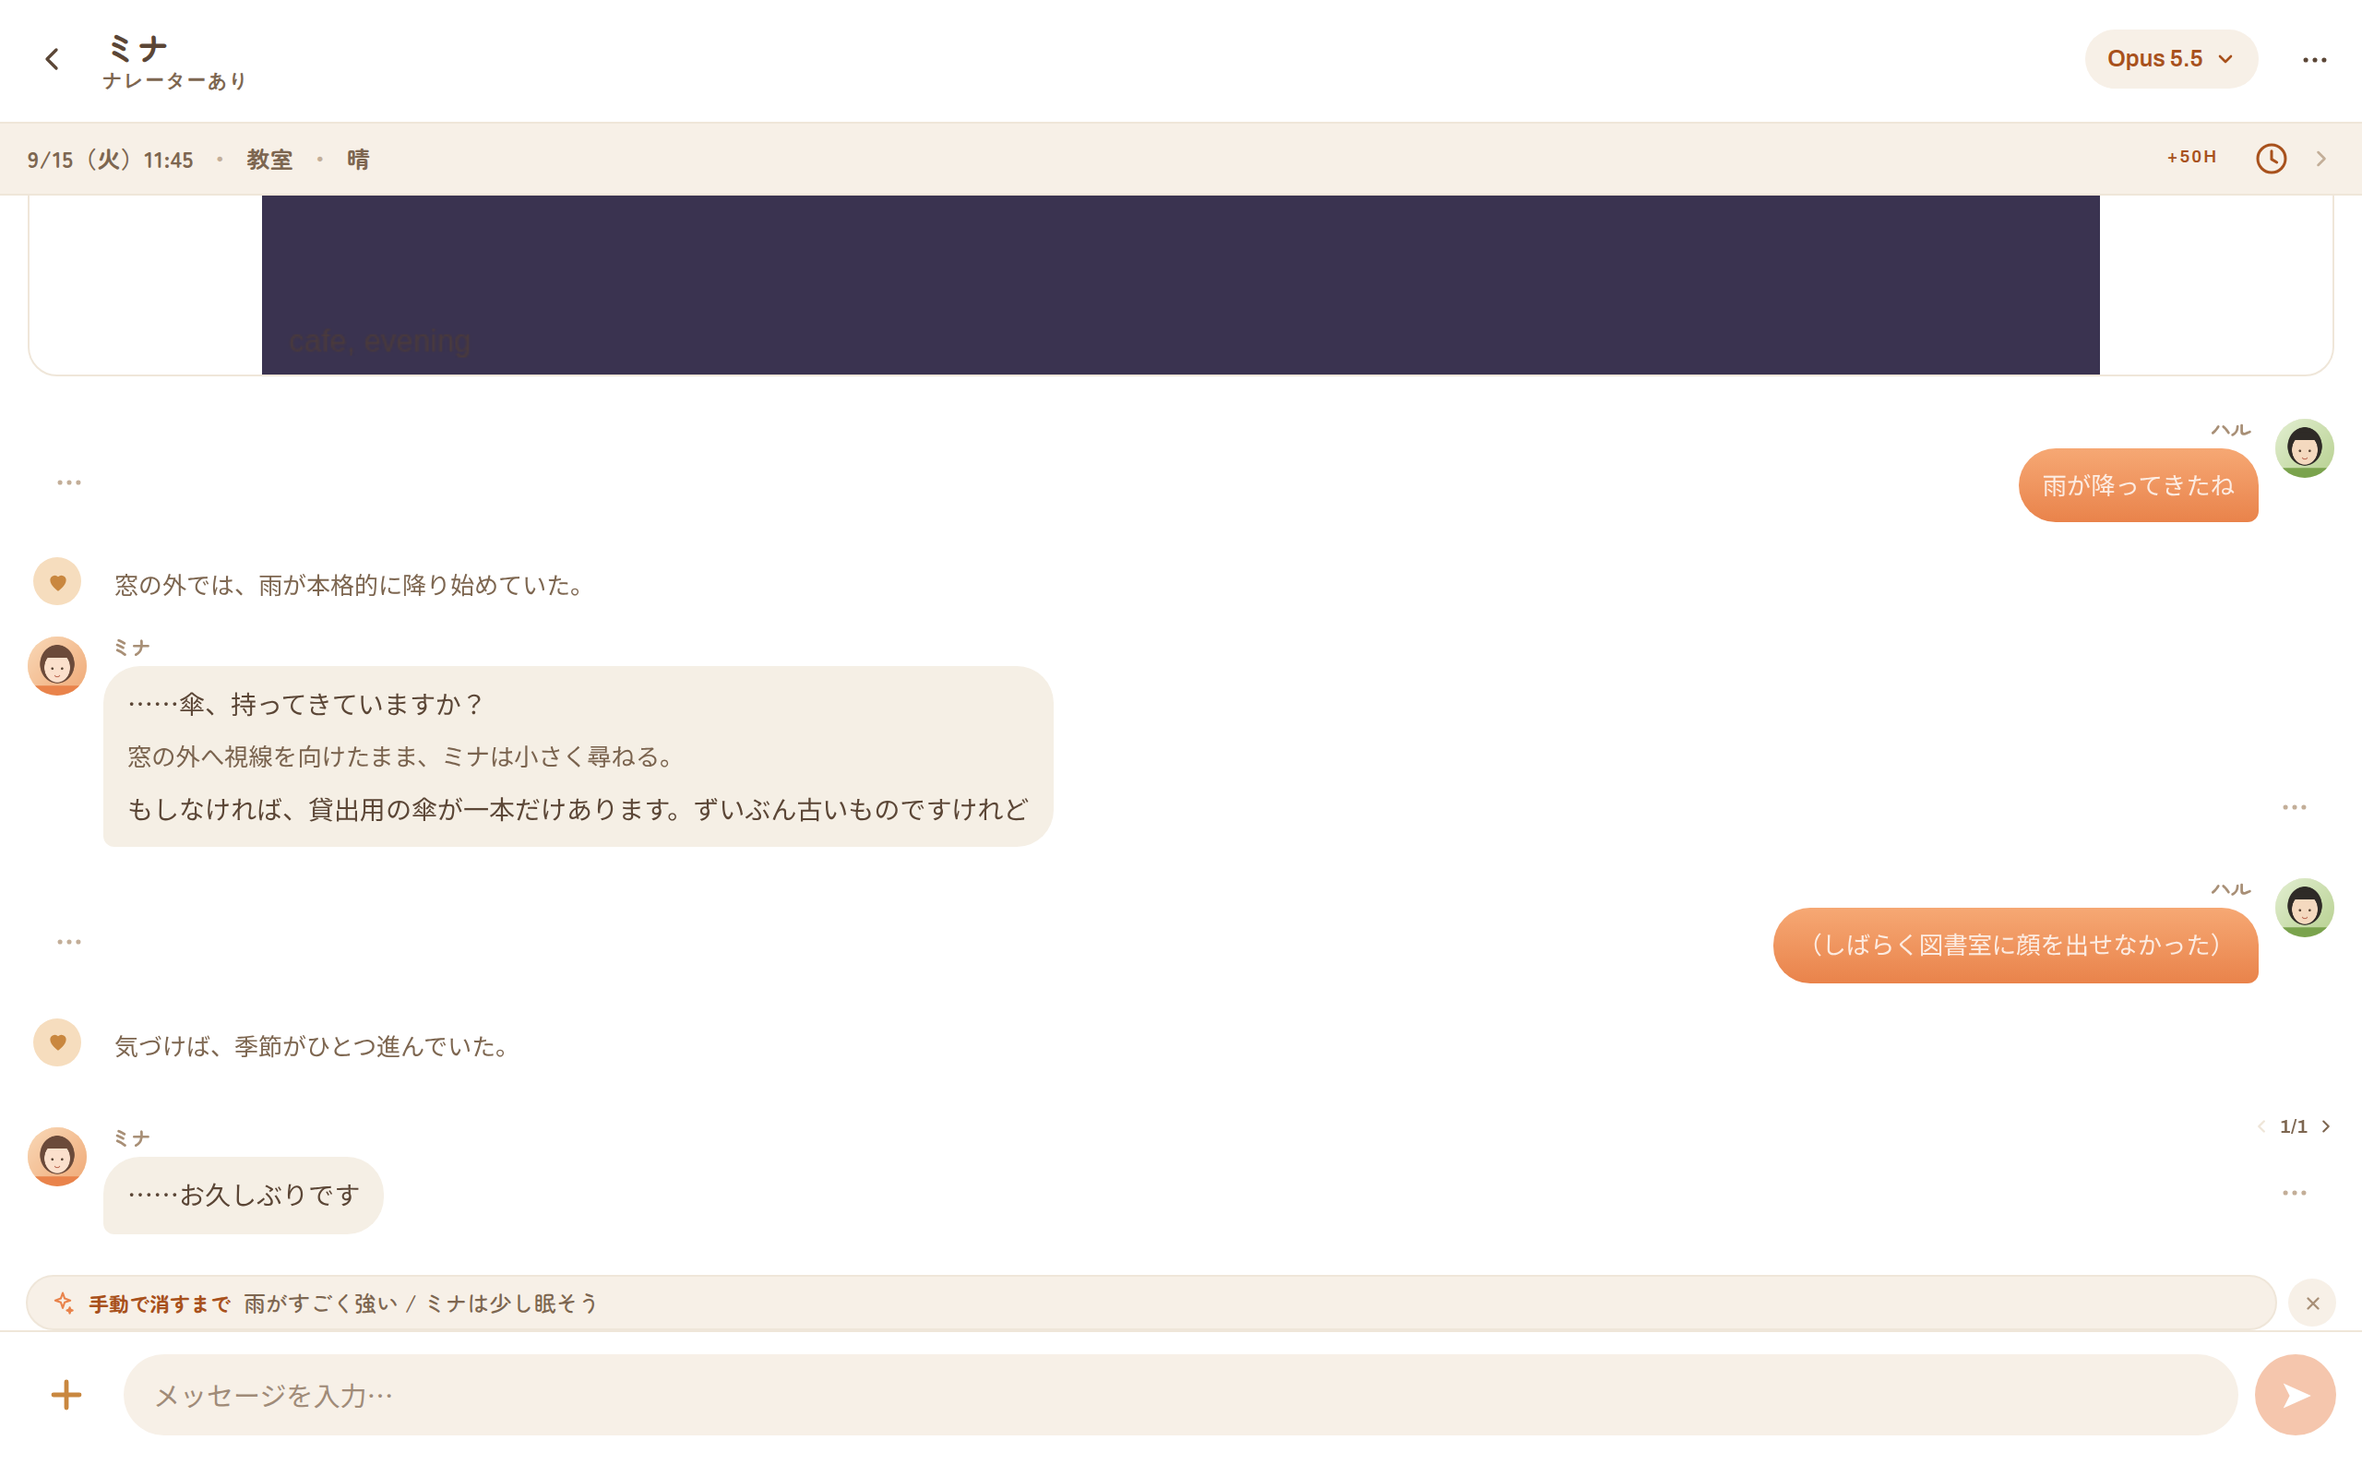
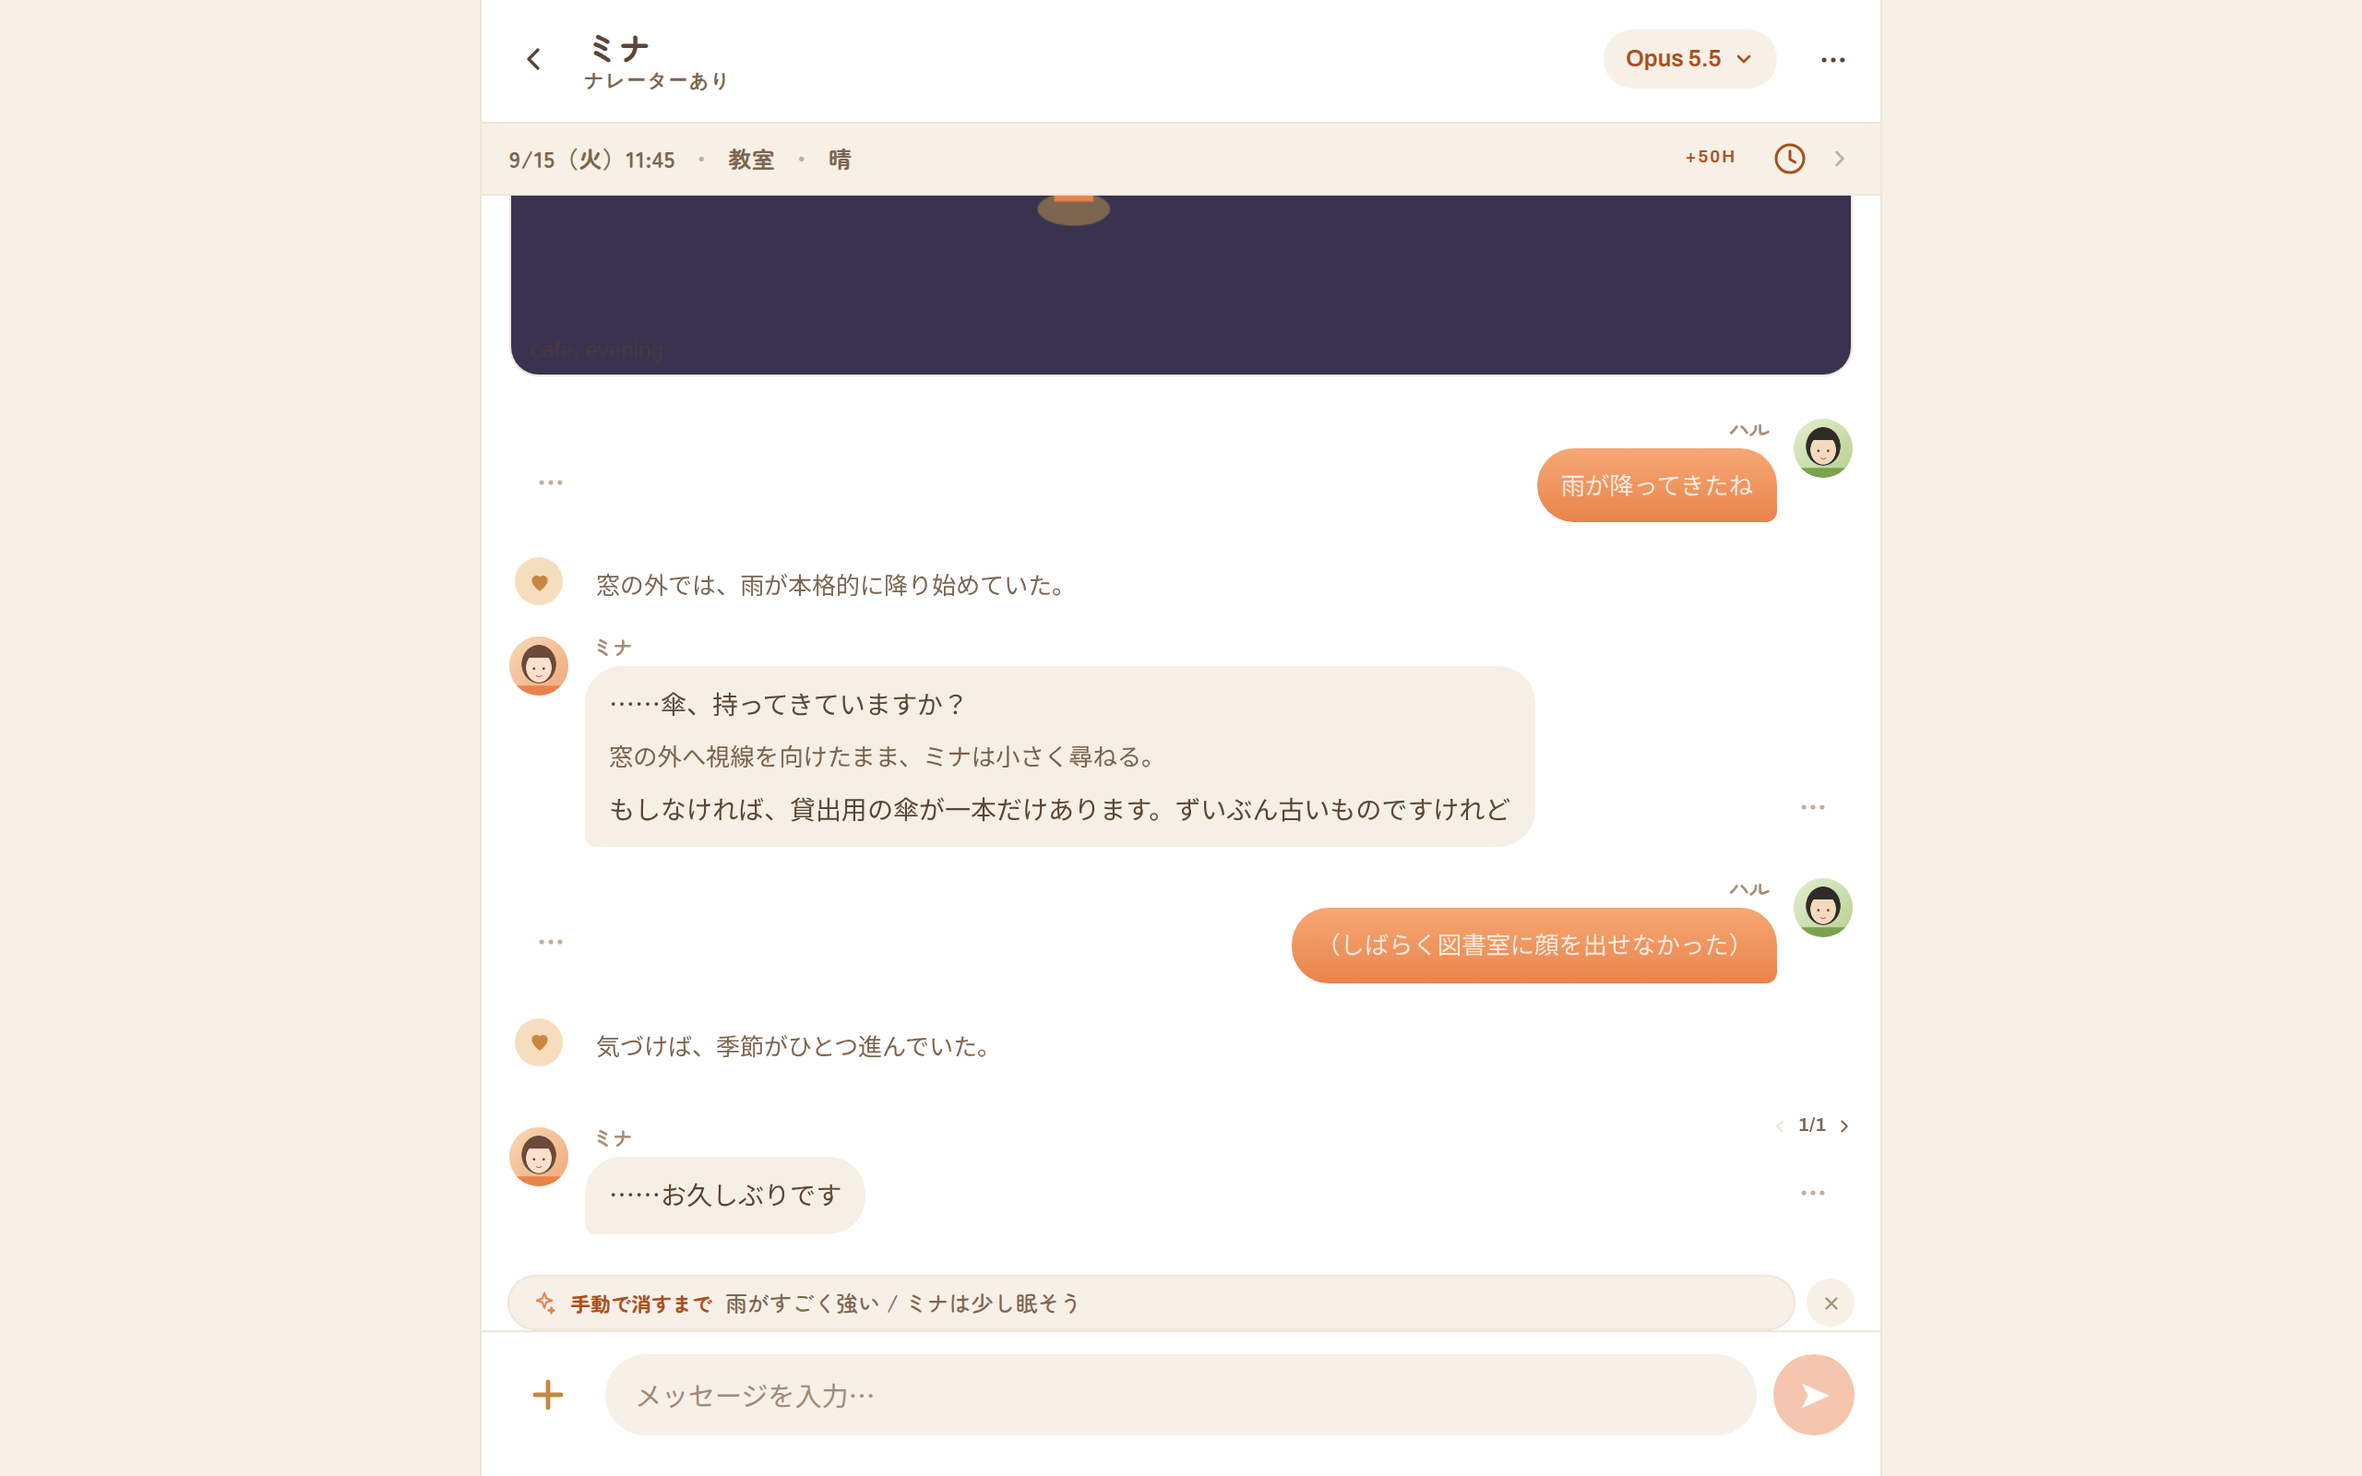
デザイン見直し フェーズ5: PC幅では画面を幅760pxの列にして中央に置く
PC幅で画面が横いっぱいに伸びていた（DESIGN_SPEC 7章 C-1）。

- 761px 以上では #root を幅 760px（--app-w）の列にして中央に置き、
  外側を --surface-2、列の左右にヘアラインを引く
- 画面の端に固定する部品（FAB・右上 ⋯ のメニュー・モデルのメニュー）は、
  列の左右の余り（--app-edge）を足して列の内側に置く。＋シートは列の幅。
  モデルのメニューの位置はインライン style から CSS へ移した
- モデルピルの最大幅を min(42vw, 320px) に
- スマホ幅では --app-edge が 0 で、見た目は変わらない（390px で変更前と同じ位置を確認）

1280px・800px・390px で、中身と固定部品が列の中に収まることを確認。
DESIGN_SPEC の 1.1・3.9・7章 C-1 を更新し、デスクトップの画面を撮り直した（4枚）。
設定の2ペイン・左の縦タブ（フェーズ5の任意の部分）は作っていない。

Claude-Session: https://claude.ai/code/session_0166u8D6zMHdXMzASkCND1vk

diff --git a/client/src/theme.css b/client/src/theme.css
@@ -67,6 +67,11 @@
   --narr-font: 13px;
   --narr-lh: 1.7;
 
+  /* --- PC幅: 画面を1本の列にして中央に置く --- */
+  --app-w: 760px;
+  /* 列の左右の余り。スマホでは 0。画面の端に固定する部品（FAB・メニュー）はこれを足して列の中に収める */
+  --app-edge: max(0px, (100vw - var(--app-w)) / 2);
+
   --safe-bottom: env(safe-area-inset-bottom, 0px);
   --safe-top: env(safe-area-inset-top, 0px);
 }
@@ -105,6 +110,22 @@ body {
   flex-direction: column;
   overflow-x: hidden;
   max-width: 100%;
+}
+
+/* PC幅では横いっぱいに伸ばさず、幅760pxの列にする。
+   外側は淡いクリーム地、列の左右にヘアラインを引いて、アプリの範囲を見せる */
+@media (min-width: 761px) {
+  body {
+    background: var(--surface-2);
+  }
+
+  #root {
+    max-width: var(--app-w);
+    margin: 0 auto;
+    background: var(--bg);
+    border-left: 1px solid var(--border);
+    border-right: 1px solid var(--border);
+  }
 }
 
 a {
@@ -259,7 +280,7 @@ button:disabled {
   place-items: center;
   box-shadow: 0 6px 20px rgba(200, 110, 40, 0.32);
   position: fixed;
-  right: 18px;
+  right: calc(18px + var(--app-edge));
   /* 下部タブ（52 + 下余白16）の上に浮かせる */
   bottom: calc(52px + 22px + 16px + var(--safe-bottom));
   z-index: 30;
@@ -1613,6 +1634,9 @@ textarea.tall {
 }
 
 .sheet {
+  width: 100%;
+  max-width: var(--app-w);
+  margin: 0 auto;
   background: var(--bg);
   border-radius: 24px 24px 0 0;
   padding: 8px 0 calc(12px + var(--safe-bottom));
@@ -1961,7 +1985,7 @@ textarea.tall {
 
 /* 右上の ⋯（この会話のメニュー） */
 .popover.chat-menu {
-  right: 12px;
+  right: calc(12px + var(--app-edge));
   top: calc(60px + var(--safe-top));
   width: 248px;
   max-height: calc(100dvh - 84px - var(--safe-top));
@@ -2009,7 +2033,7 @@ textarea.tall {
   align-items: center;
   gap: 6px;
   font: 600 12.5px/1 var(--font-meta);
-  max-width: 42vw;
+  max-width: min(42vw, 320px);
 }
 
 .model-pill .lbl {
@@ -2026,6 +2050,8 @@ textarea.tall {
 .model-menu {
   position: fixed;
   z-index: 60;
+  right: calc(12px + var(--app-edge));
+  top: calc(60px + var(--safe-top));
   min-width: 210px;
   /* 上端が 60px 固定なので、そこから画面下まで使い切る。
      62vh 固定だとモデルを足すたびに末尾が黙って隠れた（スクロールの手掛かりも無い） */

diff --git a/client/src/pages/ChatPage.tsx b/client/src/pages/ChatPage.tsx
@@ -1042,7 +1042,7 @@ export default function ChatPage() {
       {modelMenu && (
         <>
           <div className="menu-backdrop" onClick={() => setModelMenu(false)} />
-          <div className="model-menu" style={{ right: 12, top: 'calc(60px + env(safe-area-inset-top))' }}>
+          <div className="model-menu">
             <button className={`mrow${!chat.model ? ' active' : ''}`} onClick={() => void pickModel('')}>
               既定（{modelLabel(defaultModel)}）
               {!chat.model && (

diff --git a/docs/DESIGN_SPEC.md b/docs/DESIGN_SPEC.md
@@ -9,10 +9,10 @@
 
 | 項目 | 内容 |
 |---|---|
-| 対象 | `client/`（React + Vite の PWA）。最初はコミット `720cadc` 時点で書き起こし、デザイン見直し（`REDESIGN_PLAN.md` のフェーズ0〜4）を反映して更新した |
+| 対象 | `client/`（React + Vite の PWA）。最初はコミット `720cadc` 時点で書き起こし、デザイン見直し（`REDESIGN_PLAN.md` のフェーズ0〜5）を反映して更新した |
 | 向き | 画面・UI中心。「今どう見えているか」「何を押すと何が起きるか」 |
 | 読み手 | デザイナー、または Claude Design / Claude のプロジェクト |
-| 画像 | `docs/screens/*.png`（81枚、合計約10MB）。本文から相対パスで参照 |
+| 画像 | `docs/screens/*.png`（83枚、合計約11MB）。本文から相対パスで参照 |
 
 ### 「事実」と「気づき」を分ける
 
@@ -22,7 +22,7 @@
 
 ### スクリーンショットの撮影条件
 
-- 画面サイズ **390×844、DPR 2**（iPhone 系の縦画面を想定）。デスクトップ幅の2枚だけ 1280×800。
+- 画面サイズ **390×844、DPR 2**（iPhone 系の縦画面を想定）。デスクトップ幅の4枚だけ 1280×800。
 - ブラウザは Chromium（Playwright）。**書体は同梱の woff2 を使っています**（OSの書体には依存しません）。
 - データは撮影用に作った**架空のサンプル**です（世界「桜坂学園」、キャラ ミナ・トビー・先生・ハル・リラ ほか）。画像は絵の代わりに単色のイラストを使っています。
 - 返答はモックのLLMが返したもので、実際のモデルの出力ではありません。ストリーミング中の1枚（`chat-18`）も、通常の通信のまま撮っています。
@@ -38,7 +38,7 @@
 - **UIは全部日本語**。英語は一部の画面の小見出し（`Characters`・`Game Time` など）と、モデル名・ID にだけ出る。設定画面の小見出しは日本語。
 - 見た目は**白地に淡い暖色（クリーム・オレンジ）**で、角丸が多い。枠線は極細のヘアラインだけで、面は塗りで表現する。
 - **ビジュアルノベル風**。会話は吹き出し、地の文（ナレーション）は吹き出しの外に出す。
-- **スマホ前提のレイアウト。** 移動は**下部タブ**（最上位の5画面）と、各画面の「戻る」。PC幅用のレイアウトは無く、同じ画面がそのまま横に伸びる（7章 C-1）。
+- **スマホ前提のレイアウト。** 移動は**下部タブ**（最上位の5画面）と、各画面の「戻る」。PC幅（761px以上）では、同じ画面を**幅760pxの列**にして中央に置く（PC専用のレイアウトは持たない。3.9）。
 - 暗い配色（ダークモード）は無い。
 
 ### 1.2 UIが守っている制約（コード中に理由が書いてあるもの）
@@ -198,6 +198,8 @@
 | `--placeholder` | `#a08b78` | プレースホルダ |
 | `--field-ink` | `#7d6650` | 入力欄の文字 |
 
+PC幅では、列の外側の地に `--surface-2` を使う（3.9）。
+
 そのほか直書きの色: 入力欄フォーカス時の背景 `#f3ebdf`／チャット一覧のアーカイブの行 `#fbf7f1`／トーストの地 `#5b4636`・文字 `#fffdf9`／FAB の影 `rgba(200,110,40,.32)`／ポップオーバー・モーダルの影 `rgba(90,66,44,.22)`／モーダルの暗幕 `rgba(90,66,44,.32)`／スナップショット上のボタン `rgb(0 0 0 / 38%)`。
 
 ### 3.2 書体
@@ -339,7 +341,12 @@ AA の基準は本文 4.5、大きな文字（約18px太字以上）3.0。
 
 ### 3.9 レスポンシブ・セーフエリア・ビューポート
 
-- ブレークポイントは2つだけ: **560px 以下**で `.grid-2`（2列のフォーム）が1列になる／**360px 以下**で大見出しの右のアイコンを詰める。
+- ブレークポイントは3つ: **761px 以上**で画面を列にする（下記）／**560px 以下**で `.grid-2`（2列のフォーム）が1列になる／**360px 以下**で大見出しの右のアイコンを詰める。
+- **PC幅（761px 以上）**: `#root` を幅 760px（`--app-w`）の列にして中央に置き、列の左右に1pxのヘアライン、外側の地は `--surface-2`。会話・一覧・設定・詳細のすべてがこの列の中に収まる。
+  画面の端に固定する部品（FAB・右上 ⋯ のメニュー・モデルのメニュー）は、列の左右の余り（`--app-edge`）を足して**列の内側の端**に置く。＋シートは列の幅。モーダル（最大640）・確認ダイアログ（最大420）・トーストは画面の中央。
+  スマホ幅では `--app-edge` が 0 になり、見た目は変わらない。
+
+![デスクトップ幅の会話](screens/desktop-01-chat.png) ![デスクトップ幅の設定](screens/desktop-02-settings.png) ![デスクトップ幅のチャット一覧](screens/desktop-03-chats.png) ![デスクトップ幅の⋯メニュー](screens/desktop-04-chat-menu.png)
 - 高さは `100dvh`（iOS のアドレスバー対策）。`#root` は縦のフレックスで、各画面が上（トップバーか大見出し）・中（`.content` がスクロール）・下（`.footbar`・入力欄・下部タブ）を持つ。
 - セーフエリアは**上と下だけ**対応（`env(safe-area-inset-top/bottom)`）。左右は未対応。
 - `viewport` は `viewport-fit=cover, maximum-scale=1.0`（ピンチでの拡大不可）。
@@ -402,7 +409,7 @@ Lucide 準拠のインラインSVG（`client/src/icons.tsx`）。絵文字は使
 | `.tag` | 小さな丸いバッジ（9.5px・英字体）。`.mute` は灰、`.on` はオレンジ塗り |
 | `.chip` | 12px の丸いトグル。`.on` でオレンジ塗り。`.stale` は点線のアウトライン |
 | **FAB** | 56px の丸、右下固定（下部タブの上）。**チャット一覧の1箇所だけ**で使う |
-| モデルピル | 高さ 32、`--accent-ink`、最大幅 42vw で省略 |
+| モデルピル | 高さ 32、`--accent-ink`、最大幅 42vw（最大 320px）で省略 |
 
 ### 4.4 モーダルと確認ダイアログ
 
@@ -830,10 +837,9 @@ Lucide 準拠のインラインSVG（`client/src/icons.tsx`）。絵文字は使
 
 ### C. 画面の使い勝手
 
-**C-1. デスクトップ幅で横いっぱいに伸びる　【実測・画像】**
-最大幅の指定が無い。1280px 幅で `.messages`・入力欄・トップバー・下部タブが 1280px に伸び、長い吹き出しは画面の半分以上まで広がり、スナップショットは `max-height: 70vh` のため**左右に余白（レターボックス）が出る**（`desktop-01`・`desktop-02`）。一方、モーダルは最大 640px で中央に収まる。`REDESIGN_PLAN.md` ではフェーズ5（あとで）として残してある。
-
-![デスクトップ幅の会話](screens/desktop-01-chat.png) ![デスクトップ幅の設定](screens/desktop-02-settings.png)
+**C-1. デスクトップ幅で横いっぱいに伸びる　【実測・画像】　→ 修正済み**
+修正前は最大幅の指定が無く、1280px 幅で `.messages`・入力欄・トップバー・下部タブが 1280px に伸び、長い吹き出しは画面の半分以上まで広がり、スナップショットは左右に余白（レターボックス）が出た。
+**修正:** 761px 以上では画面を幅 760px の列にして中央に置き、外側を淡いクリーム地、列の左右にヘアラインを引いた（3.9）。FAB・⋯ メニュー・モデルのメニュー・＋シートも列の中に収めた。1280px・800px・390px の3つの幅で、中身と固定部品が列の中に収まること、スマホ幅では変更前と同じ位置であることを測って確かめた。設定の2ペイン・左の縦タブ（`REDESIGN_PLAN.md` フェーズ5の任意の部分）は作っていない。
 
 **C-2. ＋シートを開くと会話がほとんど見えない　【画像】　→ 修正済み**
 修正前は、シートが入力欄の下から押し上げる方式で、390×844 の画面では**メッセージ領域が約120pxに縮んだ**。メニューの項目は10行あった。
